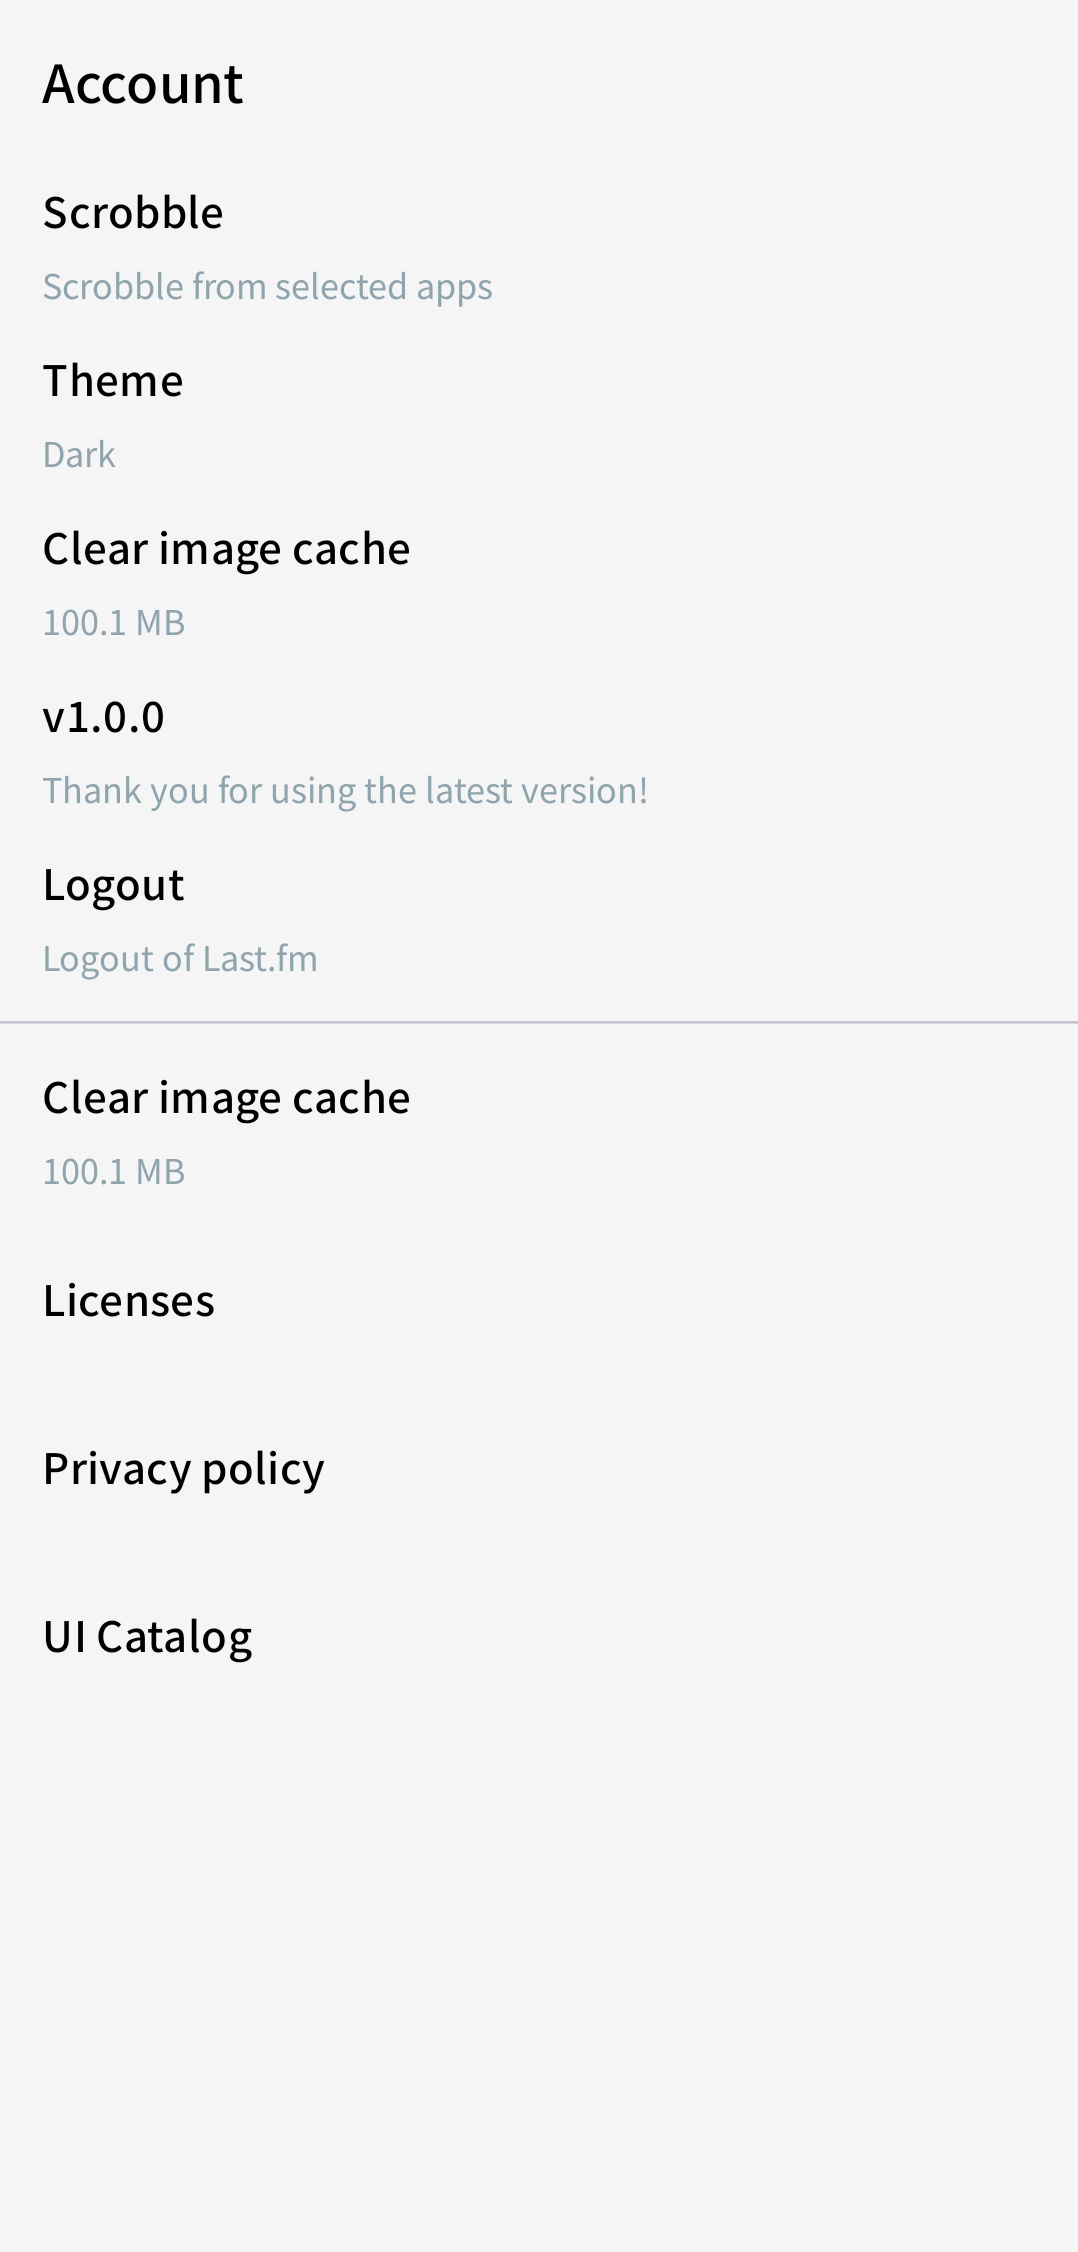
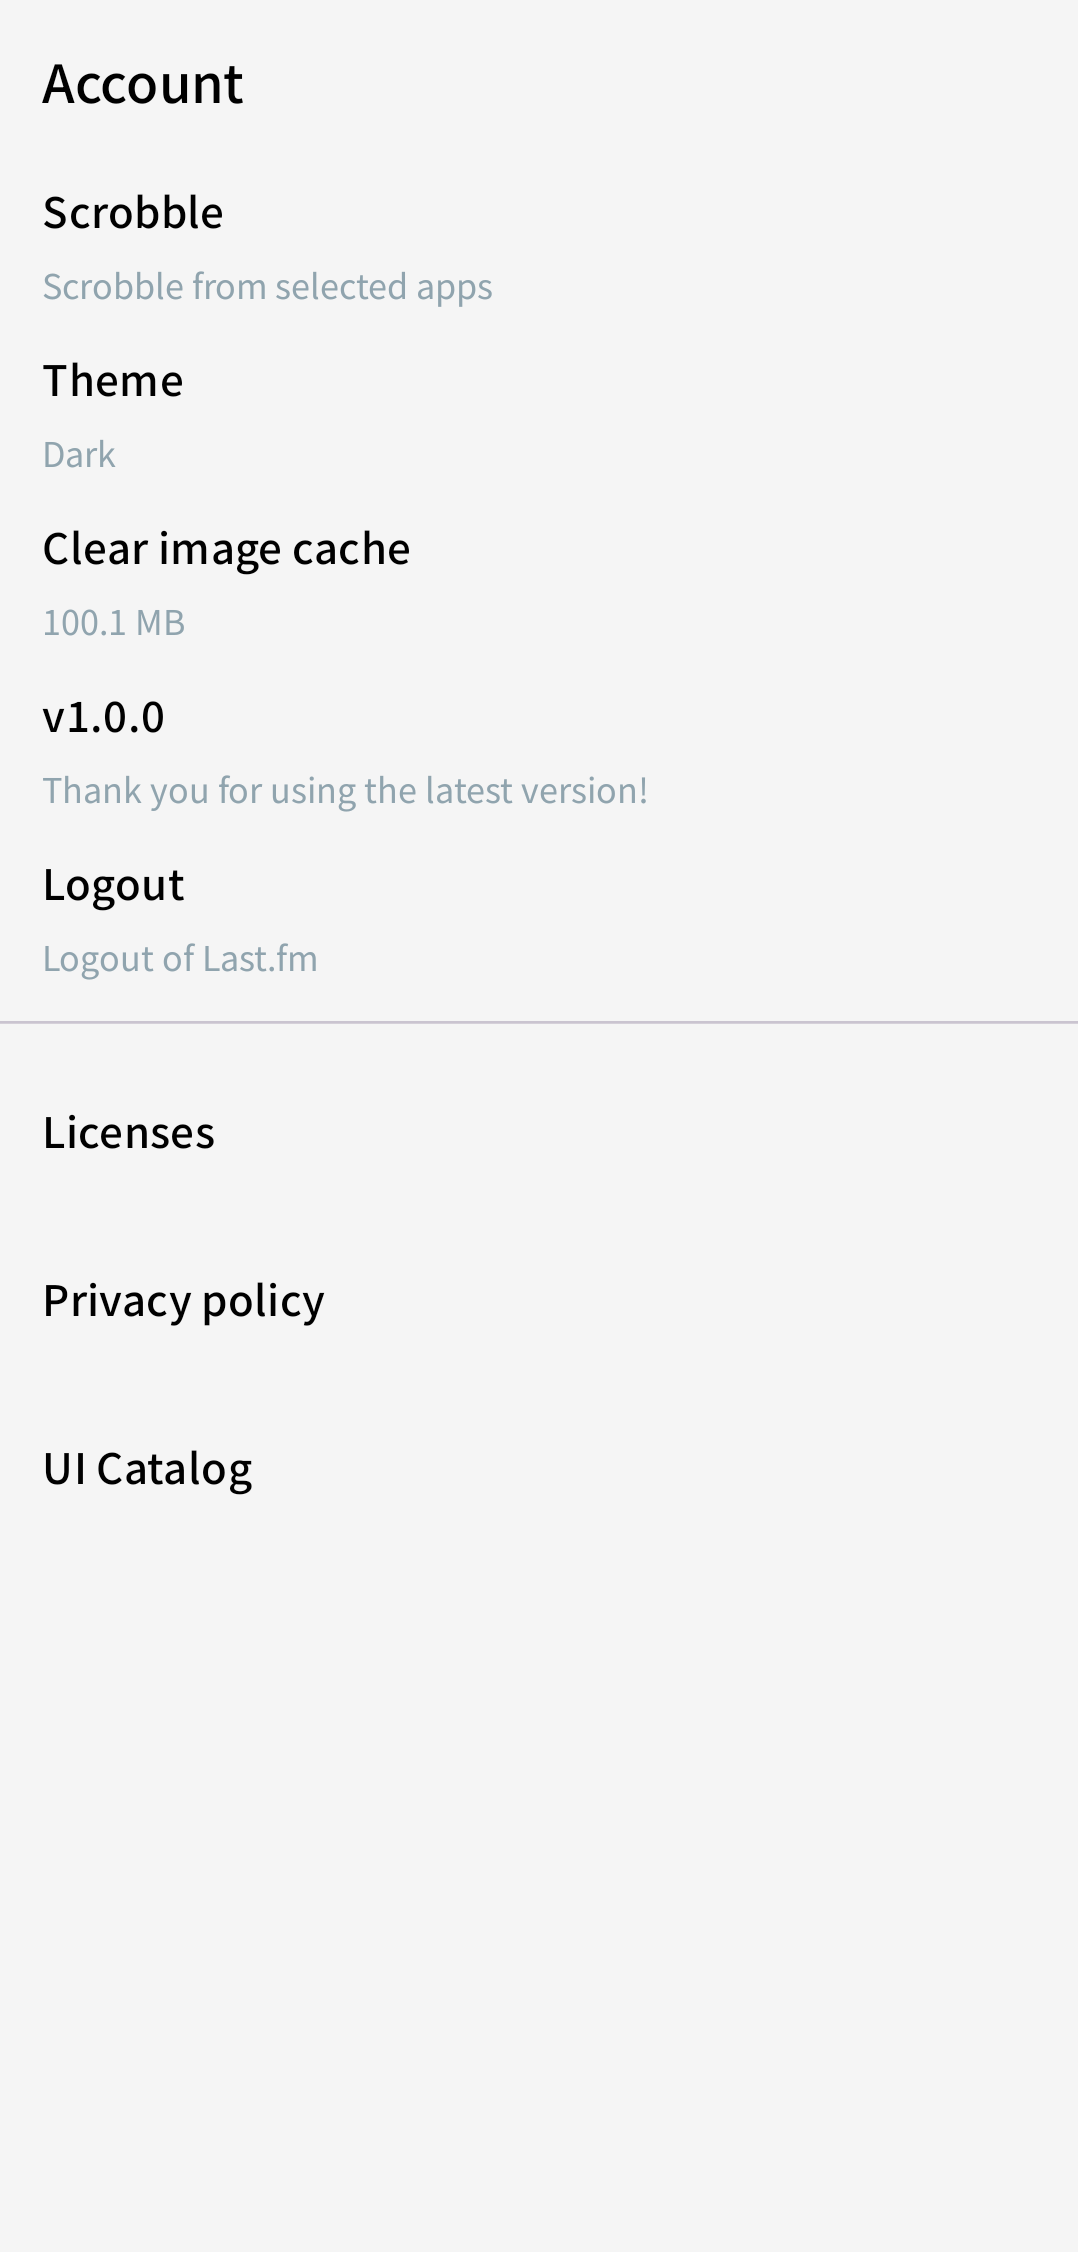
Cleanup

diff --git a/feature/account/src/main/java/com/mataku/scrobscrob/account/ui/screen/AccountScreen.kt b/feature/account/src/main/java/com/mataku/scrobscrob/account/ui/screen/AccountScreen.kt
@@ -13,7 +13,6 @@ import androidx.compose.foundation.layout.fillMaxSize
 import androidx.compose.foundation.layout.fillMaxWidth
 import androidx.compose.foundation.layout.height
 import androidx.compose.foundation.layout.padding
-import androidx.compose.foundation.lazy.LazyColumn
 import androidx.compose.foundation.rememberScrollState
 import androidx.compose.foundation.verticalScroll
 import androidx.compose.material3.AlertDialog
@@ -282,17 +281,6 @@ private fun AccountContent(
       HorizontalDivider(
         modifier = Modifier.padding(vertical = 8.dp)
       )
-      AccountMenuCell(
-        title = stringResource(id = AccountMenu.CLEAR_CACHE.titleRes),
-        description = if (imageCacheMB != null) {
-          "$imageCacheMB MB"
-        } else {
-          ""
-        }
-      ) {
-        openClearCacheConfirmationDialog.value = true
-      }
-
       val licenseMenu = AccountMenu.LICENSE
       AccountMenuCell(
         title = stringResource(id = licenseMenu.titleRes),
@@ -318,7 +306,7 @@ private fun AccountContent(
       }
     }
   }
-  
+
   if (openDialog.value) {
     AlertDialog(
       onDismissRequest = {

diff --git a/test_helper/integration/src/main/java/com/mataku/scrobscrob/test_helper/integration/ComposeRuleExtension.kt b/test_helper/integration/src/main/java/com/mataku/scrobscrob/test_helper/integration/ComposeRuleExtension.kt
@@ -4,12 +4,10 @@ import androidx.compose.material3.Surface
 import androidx.compose.runtime.Composable
 import androidx.compose.ui.test.isRoot
 import androidx.compose.ui.test.junit4.ComposeContentTestRule
-import com.github.takahirom.roborazzi.ExperimentalRoborazziApi
 import com.github.takahirom.roborazzi.captureRoboImage
 import com.mataku.scrobscrob.core.entity.AppTheme
 import com.mataku.scrobscrob.ui_common.style.SunsetThemePreview
 
-@OptIn(ExperimentalRoborazziApi::class)
 fun ComposeContentTestRule.captureScreenshot(
   appTheme: AppTheme,
   fileName: String,
